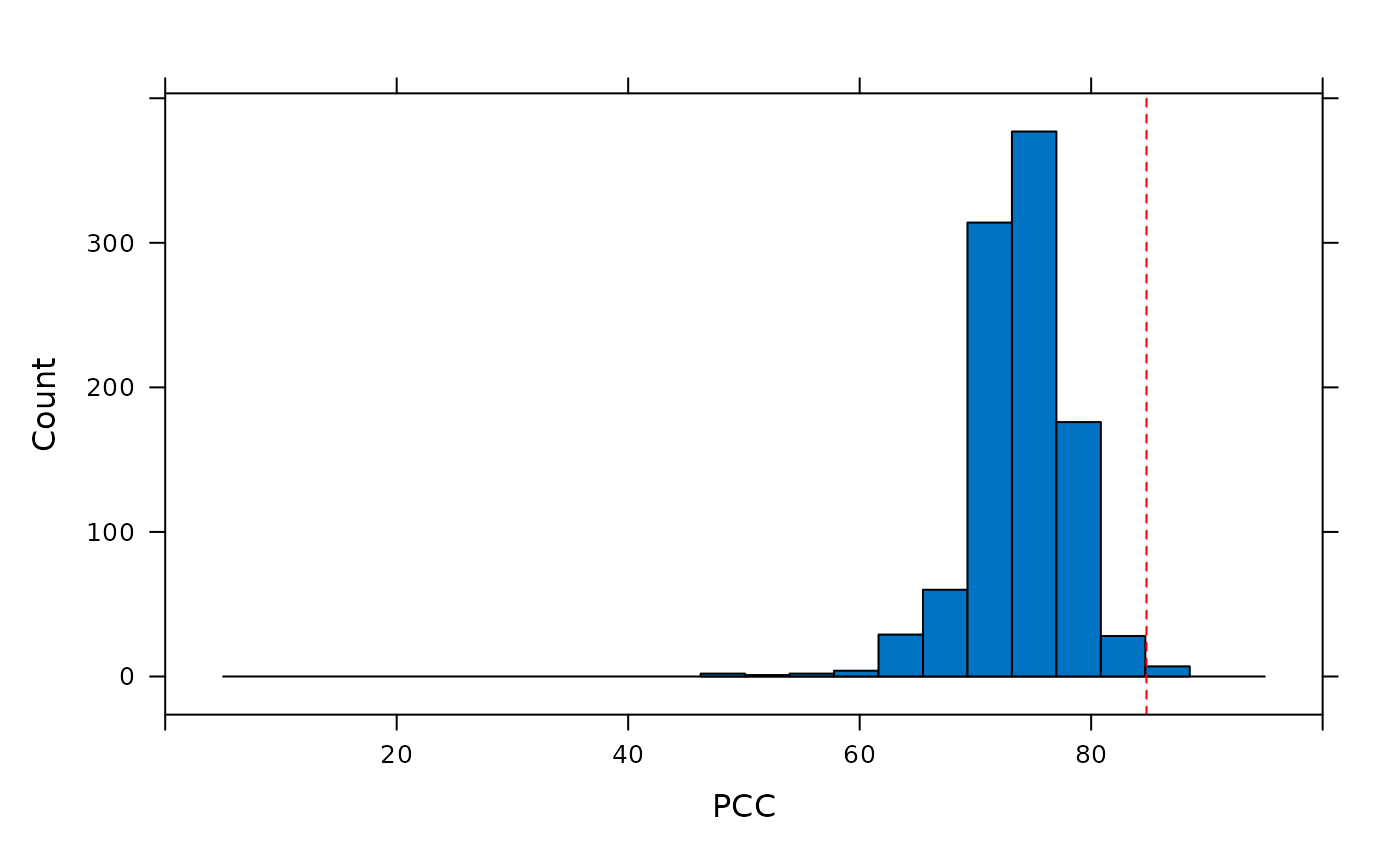
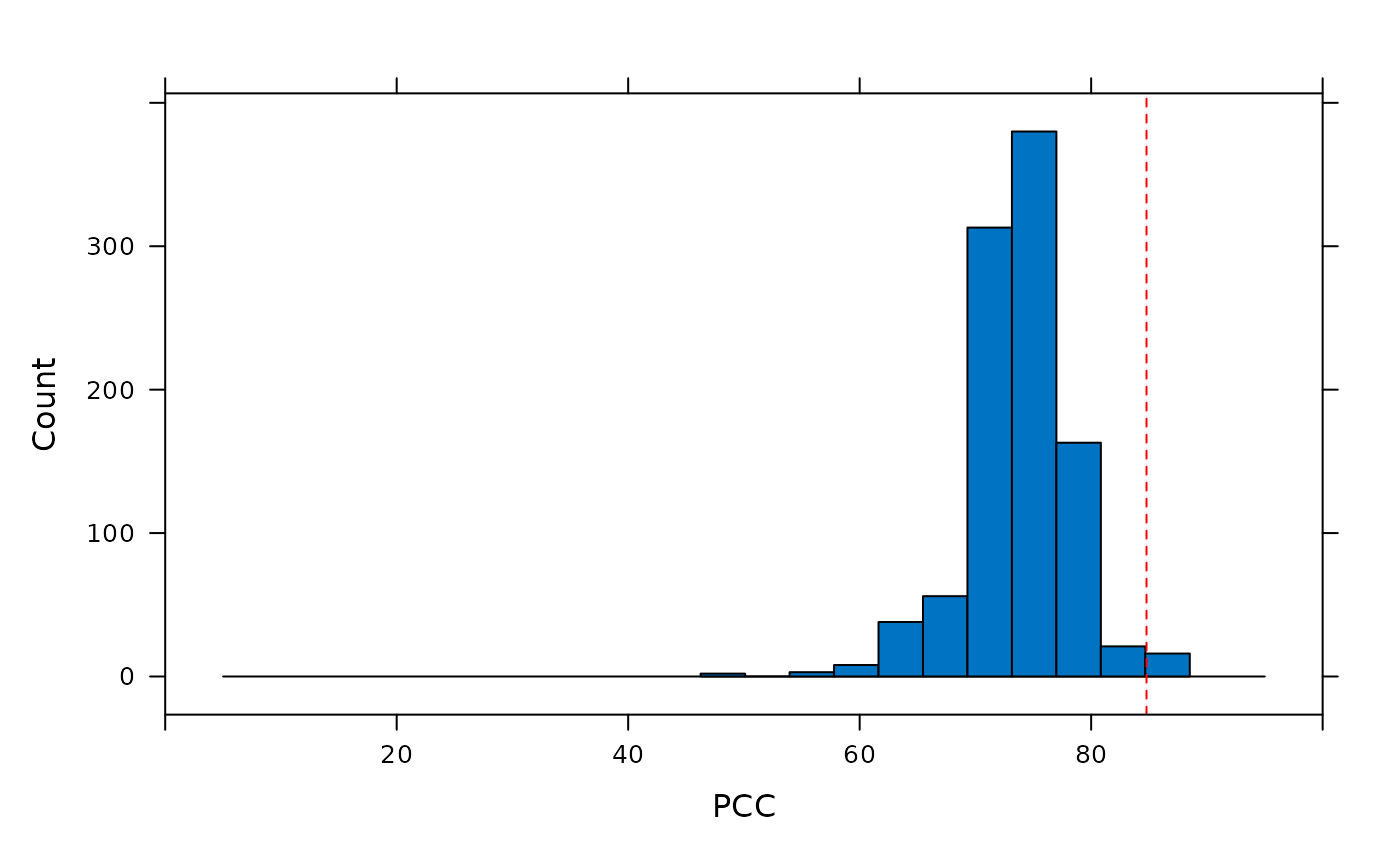
Deploying to gh-pages from @ timbeechey/clubpro@1393481901b193969b23f0ca78601188e3d2f4e7 🚀

diff --git a/articles/clubpro.html b/articles/clubpro.html
@@ -101,14 +101,14 @@
 <span><span class="co">#&gt; Random reorderings:  1000 </span></span>
 <span><span class="co">#&gt; Minimum random PCC:  47.83 </span></span>
 <span><span class="co">#&gt; Maximum random PCC:  86.96 </span></span>
-<span><span class="co">#&gt; Chance-value:  0.01</span></span></code></pre></div>
+<span><span class="co">#&gt; Chance-value:  0.02</span></span></code></pre></div>
 <div class="sourceCode" id="cb5"><pre class="downlit sourceCode r">
 <code class="sourceCode R"><span><span class="fu"><a href="https://rdrr.io/r/graphics/plot.default.html" class="external-link">plot</a></span><span class="op">(</span><span class="va">mod</span><span class="op">)</span></span></code></pre></div>
 <p><img src="clubpro_files/figure-html/plot_jellyfish-1.png" width="700"></p>
 <div class="sourceCode" id="cb6"><pre class="downlit sourceCode r">
 <code class="sourceCode R"><span><span class="va">mod_csi</span> <span class="op">&lt;-</span> <span class="fu"><a href="../reference/csi.html">csi</a></span><span class="op">(</span><span class="va">mod</span><span class="op">)</span></span>
 <span><span class="fu"><a href="https://rdrr.io/r/graphics/plot.default.html" class="external-link">plot</a></span><span class="op">(</span><span class="va">mod_csi</span><span class="op">)</span></span></code></pre></div>
-<p><img src="clubpro_files/figure-html/plot_csi-1.png" width="480"></p>
+<p><img src="clubpro_files/figure-html/plot_csi-1.png" width="768"></p>
 <div class="sourceCode" id="cb7"><pre class="downlit sourceCode r">
 <code class="sourceCode R"><span><span class="fu"><a href="https://rdrr.io/r/stats/predict.html" class="external-link">predict</a></span><span class="op">(</span><span class="va">mod</span><span class="op">)</span></span>
 <span><span class="co">#&gt;                 </span></span>
@@ -117,7 +117,7 @@
 <span><span class="co">#&gt;   Salamander Bay             2             22</span></span></code></pre></div>
 <div class="sourceCode" id="cb8"><pre class="downlit sourceCode r">
 <code class="sourceCode R"><span><span class="fu"><a href="https://rdrr.io/r/graphics/plot.default.html" class="external-link">plot</a></span><span class="op">(</span><span class="fu"><a href="https://rdrr.io/r/stats/predict.html" class="external-link">predict</a></span><span class="op">(</span><span class="va">mod</span><span class="op">)</span><span class="op">)</span></span></code></pre></div>
-<p><img src="clubpro_files/figure-html/plot_predictions-1.png" width="700"></p>
+<p><img src="clubpro_files/figure-html/plot_predictions-1.png" width="768"></p>
 <div class="sourceCode" id="cb9"><pre class="downlit sourceCode r">
 <code class="sourceCode R"><span><span class="fu"><a href="../reference/accuracy.html">accuracy</a></span><span class="op">(</span><span class="va">mod</span><span class="op">)</span></span>
 <span><span class="co">#&gt;                 </span></span>
@@ -125,12 +125,15 @@
 <span><span class="co">#&gt;   Dangar Island       17         5         0</span></span>
 <span><span class="co">#&gt;   Salamander Bay      22         2         0</span></span></code></pre></div>
 <div class="sourceCode" id="cb10"><pre class="downlit sourceCode r">
+<code class="sourceCode R"><span><span class="fu"><a href="https://rdrr.io/r/graphics/plot.default.html" class="external-link">plot</a></span><span class="op">(</span><span class="fu"><a href="../reference/accuracy.html">accuracy</a></span><span class="op">(</span><span class="va">mod</span><span class="op">)</span><span class="op">)</span></span></code></pre></div>
+<p><img src="clubpro_files/figure-html/plot_accuracy-1.png" width="768"></p>
+<div class="sourceCode" id="cb11"><pre class="downlit sourceCode r">
 <code class="sourceCode R"><span><span class="fu"><a href="../reference/pcc.html">pcc</a></span><span class="op">(</span><span class="va">mod</span><span class="op">)</span></span>
 <span><span class="co">#&gt; [1] 84.78261</span></span></code></pre></div>
-<div class="sourceCode" id="cb11"><pre class="downlit sourceCode r">
-<code class="sourceCode R"><span><span class="fu"><a href="../reference/cval.html">cval</a></span><span class="op">(</span><span class="va">mod</span><span class="op">)</span></span>
-<span><span class="co">#&gt; [1] 0.007</span></span></code></pre></div>
 <div class="sourceCode" id="cb12"><pre class="downlit sourceCode r">
+<code class="sourceCode R"><span><span class="fu"><a href="../reference/cval.html">cval</a></span><span class="op">(</span><span class="va">mod</span><span class="op">)</span></span>
+<span><span class="co">#&gt; [1] 0.016</span></span></code></pre></div>
+<div class="sourceCode" id="cb13"><pre class="downlit sourceCode r">
 <code class="sourceCode R"><span><span class="fu"><a href="https://rdrr.io/r/graphics/plot.default.html" class="external-link">plot</a></span><span class="op">(</span><span class="fu"><a href="../reference/pcc_replicates.html">pcc_replicates</a></span><span class="op">(</span><span class="va">mod</span><span class="op">)</span><span class="op">)</span></span></code></pre></div>
 <p><img src="clubpro_files/figure-html/plot_cval_dist-1.png" width="700"></p>
   </main>
